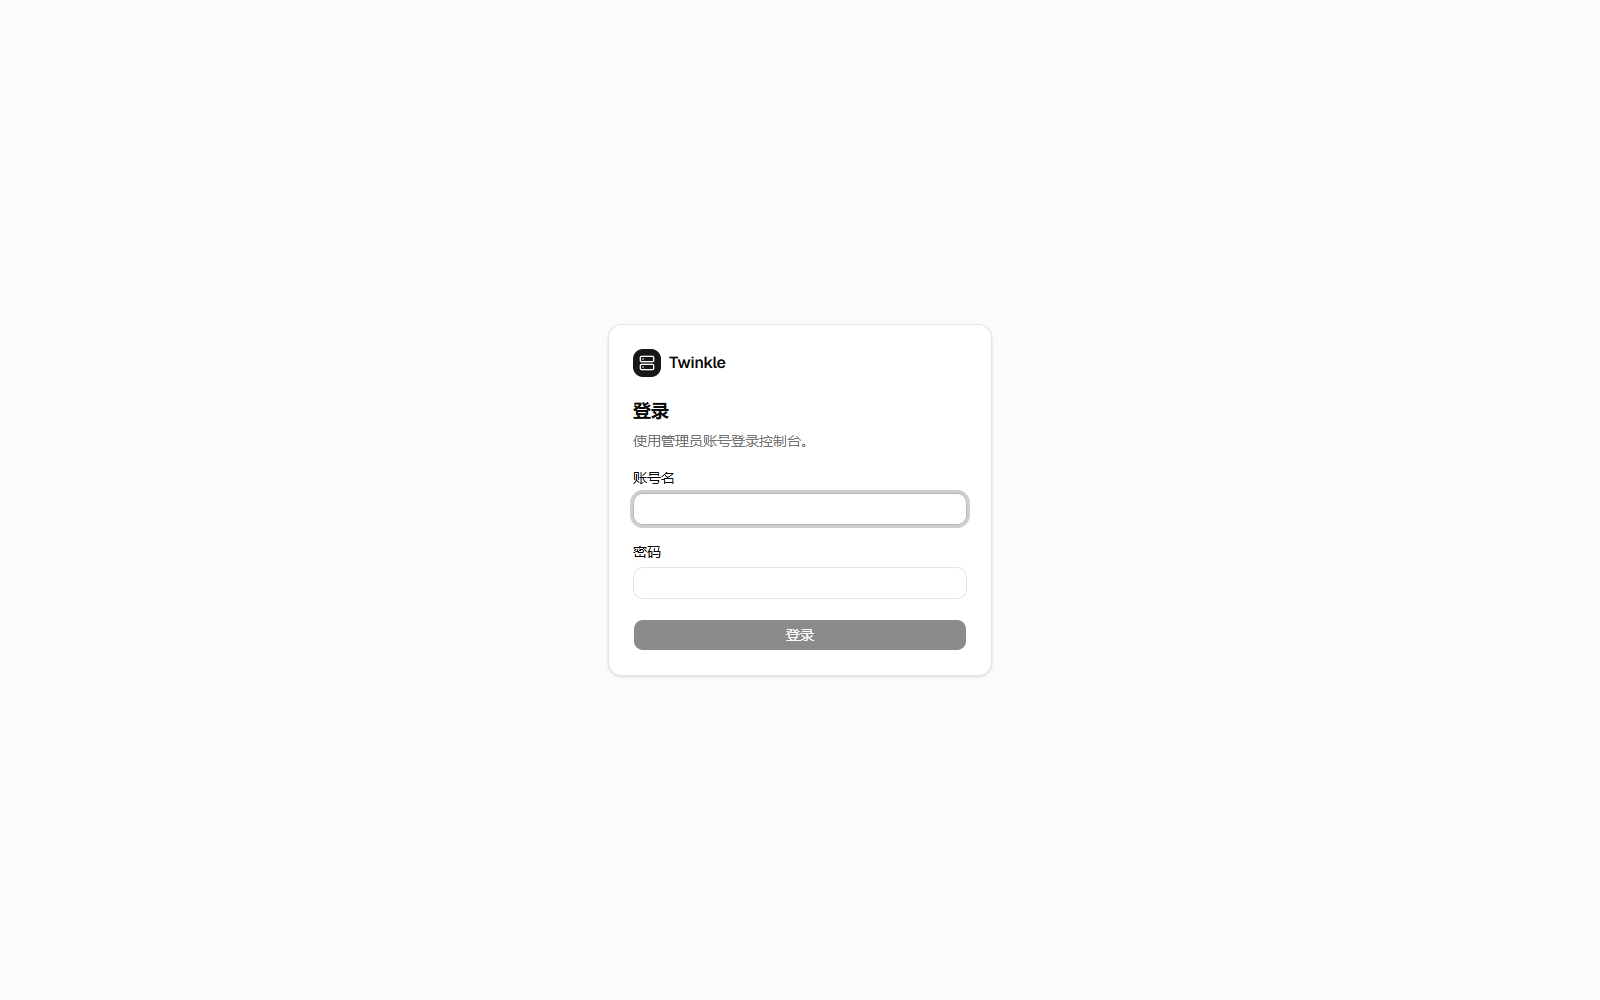
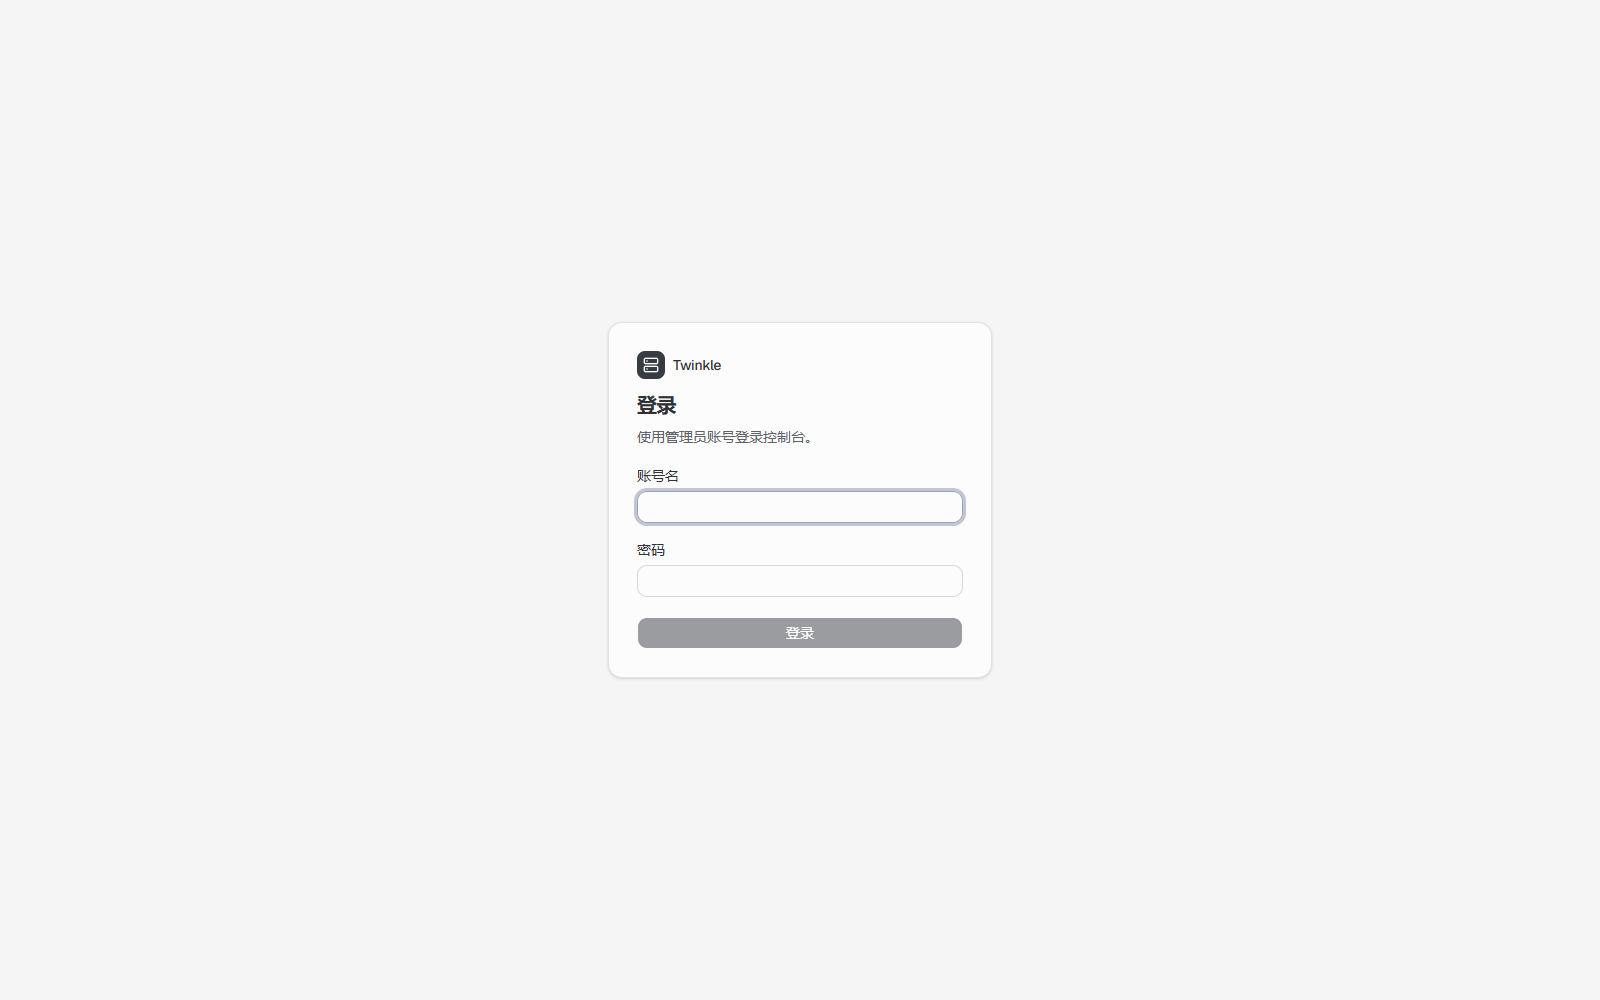
style: 参考 headless-web-foundation 重做控制台视觉

Changed region(s): [[0.375, 0.341, 0.625, 0.558], [0.4688, 0.62, 0.5312, 0.651]]

diff --git a/twinkle-web/src/components/app-shell.tsx b/twinkle-web/src/components/app-shell.tsx
@@ -72,9 +72,9 @@ export function AppShell() {
   }
 
   return (
-    <div className="min-h-svh bg-muted/30 text-foreground">
-      <header className="sticky top-0 z-30 border-b bg-background/95 backdrop-blur">
-        <div className="mx-auto flex h-14 max-w-7xl items-center px-4 sm:px-6">
+    <div className="min-h-svh bg-background text-foreground">
+      <header className="sticky top-0 z-30 border-b border-border bg-background/95 backdrop-blur">
+        <div className="mx-auto flex h-14 max-w-[1600px] items-center px-4 sm:px-6 lg:px-7">
           <NavLink to="/" className="flex items-center gap-2 font-semibold tracking-tight">
             <span className="flex size-7 items-center justify-center rounded-lg bg-primary text-primary-foreground">
               <Server className="size-4" />
@@ -84,6 +84,13 @@ export function AppShell() {
           <Badge variant="secondary" className="ml-2 hidden font-normal sm:inline-flex">
             {t("app.console")}
           </Badge>
+          <span className="ml-3 hidden items-center gap-2 text-xs text-muted-foreground md:flex">
+            <span className="hidden sm:inline">{t("app.server")}</span>
+            <span className="hidden sm:inline">/</span>
+            <span className="truncate text-foreground/80">
+              {currentRoute ? t(currentRoute.label) : t("app.console")}
+            </span>
+          </span>
           <Badge variant={token ? "secondary" : "outline"} className="ml-auto hidden font-normal sm:flex">
             {token ? t("api.connected") : t("api.disconnected")}
           </Badge>
@@ -117,9 +124,9 @@ export function AppShell() {
         </div>
       </header>
 
-      <div className="mx-auto grid max-w-7xl md:grid-cols-[14rem_minmax(0,1fr)]">
-        <aside className="min-w-0 border-b bg-background px-3 py-3 md:min-h-[calc(100svh-3.5rem)] md:border-r md:border-b-0 md:py-5">
-          <nav aria-label={t("app.navigation")} className="flex flex-col gap-2">
+      <div className="mx-auto grid max-w-[1600px] md:grid-cols-[13.25rem_minmax(0,1fr)]">
+        <aside className="min-w-0 border-b border-border bg-sidebar px-3 py-3 md:sticky md:top-14 md:min-h-[calc(100svh-3.5rem)] md:max-h-[calc(100svh-3.5rem)] md:overflow-y-auto md:border-r md:border-b-0 md:py-4">
+          <nav aria-label={t("app.navigation")} className="flex flex-col gap-1">
             {primaryNavigationPaths.map((path) => (
               <NavigationRouteLink key={path} route={workspaceRoutesByPath.get(path)!} />
             ))}
@@ -132,13 +139,13 @@ export function AppShell() {
                     type="button"
                     onClick={() => toggleGroup(group.key)}
                     aria-expanded={!isCollapsed}
-                    className="flex w-full items-center gap-2 rounded-md px-3 py-2 text-sm font-semibold text-foreground/80 transition-colors hover:bg-accent/50 hover:text-foreground"
+                    className="flex w-full items-center gap-2 rounded-md px-2.5 py-2 text-xs font-medium tracking-wide text-muted-foreground transition-colors hover:bg-sidebar-accent hover:text-sidebar-accent-foreground"
                   >
-                    <ChevronDown className={cn("size-4 transition-transform", isCollapsed && "-rotate-90")} />
+                    <ChevronDown className={cn("size-3.5 transition-transform", isCollapsed && "-rotate-90")} />
                     <span className="min-w-0 whitespace-nowrap text-left leading-5">{t(group.label)}</span>
                   </button>
                   {!isCollapsed && (
-                    <div className="ml-3 flex flex-col gap-1 border-l pl-2">
+                    <div className="ml-2.5 flex flex-col gap-0.5 border-l border-sidebar-border pl-1.5">
                       {group.routePaths.map((path) => (
                         <NavigationRouteLink key={path} route={workspaceRoutesByPath.get(path)!} />
                       ))}
@@ -168,7 +175,7 @@ export function AppShell() {
 
         <section className="min-w-0">
           {displayedTabs.length > 0 && (
-            <div className="sticky top-14 z-20 border-b bg-background/95 px-3 pt-2 backdrop-blur sm:px-5">
+            <div className="sticky top-14 z-20 border-b border-border bg-background/95 px-4 sm:px-6 lg:px-7">
               <div role="tablist" aria-label={t("app.navigation")} className="flex min-w-0 gap-1 overflow-x-auto">
                 {displayedTabs.map((tab) => {
                   const route = workspaceRoutesByPath.get(tab.routePath)!
@@ -178,10 +185,10 @@ export function AppShell() {
                     <div
                       key={route.path}
                       className={cn(
-                        "group flex h-9 shrink-0 items-center rounded-t-md border border-b-0 text-sm transition-colors",
+                        "group flex h-9 shrink-0 items-center border-b-2 text-sm transition-colors",
                         active
-                          ? "bg-muted/60 text-foreground"
-                          : "border-transparent text-muted-foreground hover:bg-muted/40 hover:text-foreground",
+                          ? "border-foreground text-foreground"
+                          : "border-transparent text-muted-foreground hover:border-border hover:text-foreground",
                       )}
                     >
                       <button
@@ -213,7 +220,7 @@ export function AppShell() {
             </div>
           )}
 
-          <main className="min-w-0 px-4 py-6 sm:px-6 lg:px-8">
+          <main className="admin-content mx-auto w-full max-w-[1600px] flex-1 px-4 py-4 sm:px-6 lg:px-7 lg:py-5">
             {displayedTabs.map((tab) => {
               const route = workspaceRoutesByPath.get(tab.routePath)!
               const Page = route.component
@@ -245,8 +252,9 @@ function NavigationRouteLink({ route }: { route: WorkspaceRouteDefinition }) {
       end={route.path === "/"}
       className={({ isActive }) =>
         cn(
-          buttonVariants({ variant: isActive ? "secondary" : "ghost" }),
-          "shrink-0 justify-start",
+          buttonVariants({ variant: "ghost", size: "sm" }),
+          "h-8 shrink-0 justify-start px-2.5 text-sm",
+          isActive && "bg-sidebar-accent text-sidebar-accent-foreground hover:bg-sidebar-accent",
         )
       }
     >

diff --git a/twinkle-web/src/index.css b/twinkle-web/src/index.css
@@ -7,7 +7,9 @@
 
 @theme inline {
     --font-heading: var(--font-sans);
-    --font-sans: 'Geist Variable', sans-serif;
+    --color-success: var(--success);
+    --color-warning: var(--warning);
+    --font-sans: 'Geist Variable', 'Microsoft YaHei', 'PingFang SC', sans-serif;
     --color-sidebar-ring: var(--sidebar-ring);
     --color-sidebar-border: var(--sidebar-border);
     --color-sidebar-accent-foreground: var(--sidebar-accent-foreground);
@@ -49,72 +51,76 @@
 }
 
 :root {
-    --background: oklch(1 0 0);
-    --foreground: oklch(0.145 0 0);
-    --card: oklch(1 0 0);
-    --card-foreground: oklch(0.145 0 0);
-    --popover: oklch(1 0 0);
-    --popover-foreground: oklch(0.145 0 0);
-    --primary: oklch(0.205 0 0);
-    --primary-foreground: oklch(0.985 0 0);
-    --secondary: oklch(0.97 0 0);
-    --secondary-foreground: oklch(0.205 0 0);
-    --muted: oklch(0.97 0 0);
-    --muted-foreground: oklch(0.556 0 0);
-    --accent: oklch(0.97 0 0);
-    --accent-foreground: oklch(0.205 0 0);
-    --destructive: oklch(0.577 0.245 27.325);
-    --border: oklch(0.922 0 0);
-    --input: oklch(0.922 0 0);
-    --ring: oklch(0.708 0 0);
-    --chart-1: oklch(0.87 0 0);
-    --chart-2: oklch(0.556 0 0);
-    --chart-3: oklch(0.439 0 0);
-    --chart-4: oklch(0.371 0 0);
-    --chart-5: oklch(0.269 0 0);
+    --background: #f7f7f7;
+    --foreground: #303136;
+    --card: #fcfcfc;
+    --card-foreground: #303136;
+    --popover: #fdfdfd;
+    --popover-foreground: #303136;
+    --primary: #393b43;
+    --primary-foreground: #ffffff;
+    --secondary: #f0f0f0;
+    --secondary-foreground: #393b43;
+    --muted: #f2f2f2;
+    --muted-foreground: #60616b;
+    --accent: #ececec;
+    --accent-foreground: #393b43;
+    --destructive: #b73d43;
+    --border: #e2e2e2;
+    --input: #d8d8d8;
+    --ring: #878fac;
+    --chart-1: #6977c8;
+    --chart-2: #438d83;
+    --chart-3: #a78b60;
+    --chart-4: #829cbd;
+    --chart-5: #9c87af;
     --radius: 0.625rem;
-    --sidebar: oklch(0.985 0 0);
-    --sidebar-foreground: oklch(0.145 0 0);
-    --sidebar-primary: oklch(0.205 0 0);
-    --sidebar-primary-foreground: oklch(0.985 0 0);
-    --sidebar-accent: oklch(0.97 0 0);
-    --sidebar-accent-foreground: oklch(0.205 0 0);
-    --sidebar-border: oklch(0.922 0 0);
-    --sidebar-ring: oklch(0.708 0 0);
+    --sidebar: #f3f3f3;
+    --sidebar-foreground: #484954;
+    --sidebar-primary: #393b43;
+    --sidebar-primary-foreground: #ffffff;
+    --sidebar-accent: #e8e8e8;
+    --sidebar-accent-foreground: #303136;
+    --sidebar-border: #e2e2e2;
+    --sidebar-ring: #878fac;
+    --success: #23765c;
+    --warning: #946416;
 }
 
 .dark {
-    --background: oklch(0.145 0 0);
-    --foreground: oklch(0.985 0 0);
-    --card: oklch(0.205 0 0);
-    --card-foreground: oklch(0.985 0 0);
-    --popover: oklch(0.205 0 0);
-    --popover-foreground: oklch(0.985 0 0);
-    --primary: oklch(0.922 0 0);
-    --primary-foreground: oklch(0.205 0 0);
-    --secondary: oklch(0.269 0 0);
-    --secondary-foreground: oklch(0.985 0 0);
-    --muted: oklch(0.269 0 0);
-    --muted-foreground: oklch(0.708 0 0);
-    --accent: oklch(0.269 0 0);
-    --accent-foreground: oklch(0.985 0 0);
-    --destructive: oklch(0.704 0.191 22.216);
-    --border: oklch(1 0 0 / 10%);
-    --input: oklch(1 0 0 / 15%);
-    --ring: oklch(0.556 0 0);
-    --chart-1: oklch(0.87 0 0);
-    --chart-2: oklch(0.556 0 0);
-    --chart-3: oklch(0.439 0 0);
-    --chart-4: oklch(0.371 0 0);
-    --chart-5: oklch(0.269 0 0);
-    --sidebar: oklch(0.205 0 0);
-    --sidebar-foreground: oklch(0.985 0 0);
-    --sidebar-primary: oklch(0.488 0.243 264.376);
-    --sidebar-primary-foreground: oklch(0.985 0 0);
-    --sidebar-accent: oklch(0.269 0 0);
-    --sidebar-accent-foreground: oklch(0.985 0 0);
-    --sidebar-border: oklch(1 0 0 / 10%);
-    --sidebar-ring: oklch(0.556 0 0);
+    --background: #1a1b20;
+    --foreground: #eceef3;
+    --card: #212228;
+    --card-foreground: #eceef3;
+    --popover: #272930;
+    --popover-foreground: #eceef3;
+    --primary: #dedbef;
+    --primary-foreground: #26232f;
+    --secondary: #2c2e37;
+    --secondary-foreground: #eceef3;
+    --muted: #24262d;
+    --muted-foreground: #a0a4af;
+    --accent: #30323d;
+    --accent-foreground: #eceef3;
+    --destructive: #ed959b;
+    --border: #34363f;
+    --input: #41434f;
+    --ring: #a09bc6;
+    --chart-1: #aaa3df;
+    --chart-2: #83baa9;
+    --chart-3: #c3ae87;
+    --chart-4: #8ea3c7;
+    --chart-5: #b69dc8;
+    --sidebar: #1e1f25;
+    --sidebar-foreground: #c3c6d0;
+    --sidebar-primary: #dedbef;
+    --sidebar-primary-foreground: #26232f;
+    --sidebar-accent: #30323c;
+    --sidebar-accent-foreground: #eceef3;
+    --sidebar-border: #34363f;
+    --sidebar-ring: #a09bc6;
+    --success: #85c9af;
+    --warning: #dcb57b;
 }
 
 @layer base {
@@ -130,3 +136,19 @@
     @apply font-sans;
     }
 }
+
+@layer base {
+  body { margin: 0; -webkit-font-smoothing: antialiased; }
+  button, input, select, textarea { font: inherit; }
+  button, [role="button"], a { -webkit-tap-highlight-color: transparent; }
+}
+
+/* 后台内容区：表头弱化、数字等宽，参考 headless-web-foundation 的数据表观感。 */
+.admin-content { min-width: 0; }
+.admin-content [data-slot="table-head"] {
+  font-size: 0.75rem;
+  font-weight: 500;
+  color: var(--muted-foreground);
+  background: var(--muted);
+}
+.admin-content [data-slot="table-cell"] { font-variant-numeric: tabular-nums; }

diff --git a/twinkle-web/src/pages/login-page.tsx b/twinkle-web/src/pages/login-page.tsx
@@ -33,17 +33,17 @@ export function LoginPage() {
   }
 
   return (
-    <div className="flex min-h-svh items-center justify-center bg-muted/30 px-4">
-      <form onSubmit={submit} className="grid w-full max-w-sm gap-5 rounded-xl border bg-background p-6 shadow-sm">
-        <div className="flex items-center gap-2 font-semibold tracking-tight">
-          <span className="flex size-7 items-center justify-center rounded-lg bg-primary text-primary-foreground">
+    <div className="flex min-h-svh items-center justify-center bg-muted/40 p-5">
+      <form onSubmit={submit} className="grid w-full max-w-sm gap-5 rounded-xl border border-border bg-card p-7 shadow-sm">
+        <div className="flex items-center gap-2 text-sm font-medium tracking-tight">
+          <span className="flex size-7 items-center justify-center rounded-md bg-primary text-primary-foreground">
             <Server className="size-4" />
           </span>
           Twinkle
         </div>
-        <div className="grid gap-1.5">
-          <h1 className="text-lg font-semibold">{t("auth.signIn")}</h1>
-          <p className="text-sm text-muted-foreground">{t("auth.signInDescription")}</p>
+        <div className="-mt-2 grid gap-1.5">
+          <h1 className="text-xl font-semibold tracking-tight">{t("auth.signIn")}</h1>
+          <p className="text-sm leading-6 text-muted-foreground">{t("auth.signInDescription")}</p>
         </div>
         <div className="grid gap-2">
           <Label htmlFor="login-name">{t("auth.accountName")}</Label>
@@ -66,7 +66,7 @@ export function LoginPage() {
           />
         </div>
         {error && <p className="text-sm text-destructive">{error}</p>}
-        <Button type="submit" disabled={pending || !name.trim() || !password}>
+        <Button type="submit" className="w-full" disabled={pending || !name.trim() || !password}>
           {pending && <Loader2 data-icon="inline-start" className="animate-spin" />}
           {pending ? t("common.processing") : t("auth.signIn")}
         </Button>

diff --git a/twinkle-web/src/i18n/index.tsx b/twinkle-web/src/i18n/index.tsx
@@ -2,7 +2,7 @@ import { createContext, useContext, useEffect, useMemo, useState, type ReactNode
 
 const messages = {
   "zh-CN": {
-    "app.console": "控制台", "app.navigation": "控制台导航",
+    "app.console": "控制台", "app.navigation": "控制台导航", "app.server": "服务端",
     "app.dataHint": "数据来自本机管理接口，并按页面频率自动刷新。", "language.label": "语言",
     "nav.overview": "概览", "nav.channels": "频道", "nav.players": "角色管理", "nav.accounts": "账号管理",
     "nav.config": "配置中心", "nav.operations": "运维操作", "nav.apiKeys": "API Key", "nav.audits": "审计日志", "nav.tasks": "任务监控",
@@ -263,7 +263,7 @@ const messages = {
     "roles.perm.account": "账号管控",
   },
   "en-US": {
-    "app.console": "Console", "app.navigation": "Console navigation",
+    "app.console": "Console", "app.navigation": "Console navigation", "app.server": "Server",
     "app.dataHint": "Data comes from the local admin API and refreshes automatically.", "language.label": "Language",
     "nav.overview": "Overview", "nav.channels": "Channels", "nav.players": "Character management", "nav.accounts": "Account management",
     "nav.config": "Configuration", "nav.operations": "Operations", "nav.apiKeys": "API Keys", "nav.audits": "Audit logs", "nav.tasks": "Tasks",

diff --git a/CLAUDE.md b/CLAUDE.md
@@ -129,7 +129,7 @@ Micronaut 4（DI/HTTP）、GraalVM CE for JDK 21（原生内置 JVMCI + GraalVM 
 
 ### Web 控制台结构（`twinkle-web/src`）
 
-React 19 + Vite + Tailwind CSS v4 + shadcn（视觉基准固定 `radix-nova` 官方风格，不用 Notion 仿制主题；纪律见 `docs/archived/design/design-system.md`）。TanStack Query 管服务端状态，react-router-dom 管路由。
+React 19 + Vite + Tailwind CSS v4 + shadcn（组件仍用 `radix-nova` 官方风格；页面布局、配色、侧栏与数据表观感参考 `E:\LocalGit\GitCN\headless-web-foundation`，只参考视觉与页面设计，不复用其功能或实现）。TanStack Query 管服务端状态，react-router-dom 管路由。
 
 **前端组件硬约束**：凡 shadcn 已提供对应组件，必须使用 `components/ui/` 中的 shadcn 实现，禁止直接使用浏览器原生交互控件替代（包括但不限于 `select`、日期选择器、checkbox、dialog、popover）。只有 shadcn 确实没有对应能力时才允许使用原生控件，并须在代码注释中说明原因；新增通用交互应先补齐 shadcn 组件封装，再由页面复用。
 

diff --git a/docs/in-progress/console-roadmap.md b/docs/in-progress/console-roadmap.md
@@ -10,6 +10,7 @@
 - 在线角色临时封包监听：实时启停、收发方向、include/exclude opcode 过滤、默认降噪、有界内存窗口、凭证强制不采集和独立 RBAC 审计。
 - 公共、管理、内部 API 的主版本边界、生命周期登记、自动 OpenAPI 产物与 Swagger UI 入口。
 - 无头验收：`npm run smoke:console` 登录后遍历概览/频道/角色/账号/配置/运维/角色权限/审计/API Key/能力目录并截图到 `docs/screenshots/console/`，同时断言健康检查与频道接口。首次运行即发现并修复运维页因后端省略空集合字段（`failedChannelIds`）导致的整页崩溃。
+- 视觉参考 `E:\LocalGit\GitCN\headless-web-foundation`（仅页面设计与风格，不复用其功能）：灰底与近白卡片、深灰主色、13.25rem 分组侧栏、行内标签页、弱化表头与等宽数字；登录页改为居中卡片，顶部补“服务端 / 当前页”面包屑。
 
 ## 后续任务
 
